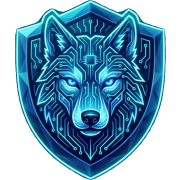
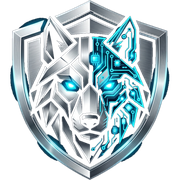
feat(brand): rename platform to WolfCore Technology and implement cybernetic shield badge

diff --git a/public/css/glass.css b/public/css/glass.css
@@ -1,5 +1,11 @@
 /* ================================================================
-   WOLFCORE SYSTEMA - LIQUID GLASS DESIGN SYSTEM
+   WOLFCORE TECHNOLOGY - LIQUID GLASS DESIGN SYSTEM
+   Generado automáticamente desde arquitectura modular en resources/css/glass/
+   ================================================================ */
+
+/* --- MODULE: _tokens.css --- */
+/* ================================================================
+   WOLFCORE TECHNOLOGY - LIQUID GLASS DESIGN SYSTEM
    Paleta: Azul Eléctrico #2563EB, Azul Oscuro #0F172A, Blanco #FFFFFF
    ================================================================ */
 
@@ -201,6 +207,8 @@ html.dark .glass {
   border-color: var(--glass-dark-border);
   box-shadow: var(--glass-dark-shadow);
 }
+
+/* --- MODULE: _cards.css --- */
 /* --- TARJETA VIDRIO (REDONDEADA) -------------------------------------------------- */
 .glass-card {
   background: rgba(255, 255, 255, 0.65);
@@ -420,6 +428,8 @@ html.dark .glass-card-gray {
   --card-accent: 100, 116, 139;
 }
 
+
+/* --- MODULE: _sidebar.css --- */
 /* --- SIDEBAR VIDRIO LIQUIDO -------------------------------------------------- */
 #ts-sidebar {
   width: var(--sidebar-w);
@@ -600,7 +610,7 @@ html.dark .nav-item {
   display: inline-block !important;
 }
 
-/* Modo Zoom >= 150% o Móvil: WOLFCORE SYSTEMA encima de NAVEGACIÓN */
+/* Modo Zoom >= 150% o Móvil: WOLFCORE TECHNOLOGY encima de NAVEGACIÓN */
 #ts-sidebar.show-sidebar-brand:hover .sidebar-logo-title,
 #ts-sidebar.show-sidebar-brand.expanded .sidebar-logo-title,
 #ts-sidebar.show-sidebar-brand.mobile-open .sidebar-logo-title {
@@ -753,6 +763,8 @@ html.dark .nav-group-label {
     box-shadow: 0 2px 14px rgba(239, 68, 68, 0.70);
   }
 }
+
+/* --- MODULE: _topbar.css --- */
 /* --- BARRA SUPERIOR (TOPBAR) -------------------------------------------------- */
 #ts-topbar {
   background: rgba(255, 255, 255, 0.60);
@@ -793,6 +805,8 @@ html.dark #ts-topbar {
   flex-shrink: 0;
 }
 
+
+/* --- MODULE: _buttons.css --- */
 /* --- BOTÓN PRIMARIO VIDRIO LIQUIDO (Dimensiones idénticas a btn-purple: 38px) --- */
 .btn-primary {
   display: inline-flex !important;
@@ -4190,6 +4204,8 @@ html.dark .btn-blue:hover {
   box-shadow: 0 5px 16px -2px rgba(0, 0, 0, 0.50), inset 0 1px 0 rgba(255, 255, 255, 0.22) !important;
 }
 
+
+/* --- MODULE: _forms.css --- */
 /* --- INPUT VIDRIO -------------------------------------------------- */
 .glass-input {
   width: 100%;
@@ -4622,6 +4638,8 @@ html.dark .field-label {
 }
 
 
+
+/* --- MODULE: _tables.css --- */
 /* --- TABLA DE DATOS ULTRA-PREMIUM (Liquid Glass) ------------------------- */
 .ts-table,
 .glass-table {
@@ -5166,6 +5184,8 @@ html.dark .ts-table tbody td.text-emerald-600 {
     }
   }
 }
+
+/* --- MODULE: _pills.css --- */
 /* --- PILLS DE ESTADO -------------------------------------------------- */
 .pill {
   display: inline-flex;
@@ -5299,6 +5319,8 @@ html.dark .pill-especialidad {
   background: rgba(99, 102, 241, 0.15);
 }
 
+
+/* --- MODULE: _print.css --- */
 /* ================================================================
    Print
    ================================================================ */
@@ -5429,6 +5451,8 @@ html.dark .pill-especialidad {
   }
 }
 
+
+/* --- MODULE: _modals.css --- */
 /* --- TOGGLE ENTIDAD (PERSONA / EMPRESA) -------------------------------------------------- */
 .entity-toggle {
   display: flex;
@@ -5527,6 +5551,8 @@ html.dark .ts-modal-card {
   transition: width 0.15s ease;
   pointer-events: none;
 }
+
+/* --- MODULE: _animations.css --- */
 /* --- ANIMACIONES -------------------------------------------------- */
 @keyframes fadeSlideIn {
 
@@ -5562,6 +5588,8 @@ html.dark .ts-modal-card {
   border-radius: 6px;
 }
 
+
+/* --- MODULE: _responsive.css --- */
 /* --- ESTILOS DE IMPRESIÓN -------------------------------------------------- */
 @media print {
 
@@ -5705,6 +5733,8 @@ html.dark .ts-modal-card {
 }
 
 
+
+/* --- MODULE: _tomselect.css --- */
 /* --- GLASSMORPHISM: TOM-SELECT -------------------------------------------------- */
 
 /* ---- Wrapper: eliminar fondo/borde evitar cuadro en cuadro ---- */
@@ -5883,6 +5913,8 @@ html.dark .ts-wrapper.is-invalid .ts-control {
 
 
 
+
+/* --- MODULE: _flatpickr.css --- */
 /* --- GLASSMORPHISM: FLATPICKR CALENDAR -------------------------------------------------- */
 .flatpickr-calendar {
   background: rgba(255, 255, 255, 0.70) !important;
@@ -6075,6 +6107,8 @@ html.dark .flatpickr-day.flatpickr-disabled {
 }
 
 
+
+/* --- MODULE: _utilities.css --- */
 /* --- CORRECCIÓN AUTOCOMPLETADO NAVEGADOR -------------------------------------------------- */
 input:-webkit-autofill,
 input:-webkit-autofill:hover,
@@ -8430,7 +8464,7 @@ html.dark a[title*="Revertir" i] {
   cursor: not-allowed !important;
 }
 
-/* Espaciado del título WOLFCORE SYSTEMA exclusivamente en móviles para no colisionar con el botón de tema */
+/* Espaciado del título WOLFCORE TECHNOLOGY exclusivamente en móviles para no colisionar con el botón de tema */
 @media (max-width: 639px) {
   .login-brand-title {
     margin-top: 3.5rem !important;
@@ -10174,3 +10208,4 @@ html.dark .reportes-nav-principal a:hover {
     gap: 0.5rem !important;
   }
 }
+

diff --git a/resources/css/glass/_sidebar.css b/resources/css/glass/_sidebar.css
@@ -178,7 +178,7 @@ html.dark .nav-item {
   display: inline-block !important;
 }
 
-/* Modo Zoom >= 150% o Móvil: WOLFCORE SYSTEMA encima de NAVEGACIÓN */
+/* Modo Zoom >= 150% o Móvil: WOLFCORE TECHNOLOGY encima de NAVEGACIÓN */
 #ts-sidebar.show-sidebar-brand:hover .sidebar-logo-title,
 #ts-sidebar.show-sidebar-brand.expanded .sidebar-logo-title,
 #ts-sidebar.show-sidebar-brand.mobile-open .sidebar-logo-title {

diff --git a/resources/css/glass/_utilities.css b/resources/css/glass/_utilities.css
@@ -2353,7 +2353,7 @@ html.dark a[title*="Revertir" i] {
   cursor: not-allowed !important;
 }
 
-/* Espaciado del título WOLFCORE SYSTEMA exclusivamente en móviles para no colisionar con el botón de tema */
+/* Espaciado del título WOLFCORE TECHNOLOGY exclusivamente en móviles para no colisionar con el botón de tema */
 @media (max-width: 639px) {
   .login-brand-title {
     margin-top: 3.5rem !important;

diff --git a/resources/css/glass/glass.css b/resources/css/glass/glass.css
@@ -1,5 +1,5 @@
 /* ================================================================
-   WOLFCORE SYSTEMA - LIQUID GLASS DESIGN SYSTEM (ARQUITECTURA MODULAR)
+   WOLFCORE TECHNOLOGY - LIQUID GLASS DESIGN SYSTEM (ARQUITECTURA MODULAR)
    Pionero de diseño para proyectos Laravel de alta fidelidad visual.
    ================================================================ */
 

diff --git a/resources/css/glass/_tokens.css b/resources/css/glass/_tokens.css
@@ -1,5 +1,5 @@
 /* ================================================================
-   WOLFCORE SYSTEMA - LIQUID GLASS DESIGN SYSTEM
+   WOLFCORE TECHNOLOGY - LIQUID GLASS DESIGN SYSTEM
    Paleta: Azul Eléctrico #2563EB, Azul Oscuro #0F172A, Blanco #FFFFFF
    ================================================================ */
 

diff --git a/resources/views/layouts/consulta.blade.php b/resources/views/layouts/consulta.blade.php
@@ -3,9 +3,9 @@
 <head>
     <meta charset="UTF-8">
     <meta name="viewport" content="width=device-width, initial-scale=1.0, maximum-scale=1.0, user-scalable=no">
-    <title>Consulta — WolfCore Systema</title>
+    <title>Consulta — WolfCore Technology</title>
     
-    <!-- Favicon (Isotipo e Insignia WolfCore Systema con invalidación de caché) -->
+    <!-- Favicon (Isotipo e Insignia WolfCore Technology con invalidación de caché) -->
     <link rel="icon" type="image/png" sizes="48x48" href="{{ asset('favicon-48x48.png') }}?v={{ filemtime(public_path('favicon-48x48.png')) }}">
     <link rel="icon" type="image/png" sizes="32x32" href="{{ asset('favicon-32x32.png') }}?v={{ filemtime(public_path('favicon-32x32.png')) }}">
     <link rel="icon" type="image/png" sizes="16x16" href="{{ asset('favicon-16x16.png') }}?v={{ filemtime(public_path('favicon-16x16.png')) }}">
@@ -42,7 +42,7 @@
     </script>
 </head>
 <body class="ts-bg text-gray-800 dark:text-gray-100 min-h-screen">
-    {{-- Header mínimo con logo Wolf Guard y cerrar sesión --}}
+    {{-- Header mínimo con logo WolfCore Technology y cerrar sesión --}}
     <header class="bg-white/80 dark:bg-slate-900/80 backdrop-blur-sm border-b border-gray-200/50 dark:border-white/10 sticky top-0 z-40">
         <div class="max-w-7xl mx-auto px-4 py-3 flex items-center justify-between">
             @php
@@ -50,9 +50,9 @@
                 $headerHome = $isElecHeader ? route('consulta.electronicas') : route('consulta.mantenimientos');
             @endphp
             <a href="{{ $headerHome }}" class="flex items-center gap-2.5 hover:scale-105 transition-transform duration-200">
-                <img src="{{ asset('images/wolfcore.png') }}" alt="WolfCore Systema" class="w-7 h-7 object-contain">
+                <img src="{{ asset('images/wolfcore.png') }}" alt="WolfCore Technology" class="w-7 h-7 object-contain">
                 <span class="text-[#2563EB] dark:text-[#3B82F6] font-logo font-black text-xl">WOLFCORE</span>
-                <span class="text-slate-800 dark:text-white font-logo font-black text-xl">SYSTEMA</span>
+                <span class="text-slate-800 dark:text-white font-logo font-black text-xl">TECHNOLOGY</span>
                 <span class="ml-2 px-2 py-0.5 text-[10px] font-bold {{ $isElecHeader ? 'bg-purple-100 dark:bg-purple-900/30 text-purple-700 dark:text-purple-300' : 'bg-blue-100 dark:bg-blue-900/30 text-blue-700 dark:text-blue-300' }} rounded">CONSULTA</span>
             </a>
             <form method="POST" action="{{ route('logout') }}" class="m-0">

diff --git a/resources/views/guest/dashboard.blade.php b/resources/views/guest/dashboard.blade.php
@@ -1,6 +1,6 @@
 @extends('layouts.guest')
 
-@section('title', 'WolfCore Systema — Portal de Seguimiento')
+@section('title', 'WolfCore Technology — Portal de Seguimiento')
 
 @section('content')
 <div class="min-h-screen relative overflow-hidden flex items-center justify-center p-4 sm:p-8">
@@ -32,18 +32,18 @@
 
     <div class="w-full {{ ($cliente || (isset($searched) && ($mantenimientos->isNotEmpty() || $electronicas->isNotEmpty()))) ? 'max-w-2xl' : 'max-w-md' }} z-10 flex flex-col items-center pb-10 transition-all">
         
-        {{-- Logo WOLFCORE SYSTEMA (Fuera del recuadro) --}}
+        {{-- Logo WOLFCORE TECHNOLOGY (Fuera del recuadro) --}}
         <div class="flex justify-center mb-4 login-brand-title">
             <div class="text-[26px] font-black tracking-widest font-logo flex items-center gap-2">
                 <span class="text-[#2563EB] dark:text-[#3B82F6]">WOLFCORE</span>
-                <span class="text-slate-800 dark:text-white">SYSTEMA</span>
+                <span class="text-slate-800 dark:text-white">TECHNOLOGY</span>
             </div>
         </div>
 
-        {{-- Encabezado con insignia oficial de WolfCore Systema --}}
+        {{-- Encabezado con insignia oficial de WolfCore Technology --}}
         <div class="text-center mb-3">
             <div class="inline-flex items-center justify-center w-20 h-20 mb-2 hover:scale-105 transition-transform duration-300">
-                <img src="{{ asset('images/wolfcore.png') }}" alt="WolfCore Systema" class="w-full h-full object-contain filter drop-shadow-[0_4px_10px_rgba(0,0,0,0.2)]">
+                <img src="{{ asset('images/wolfcore.png') }}" alt="WolfCore Technology" class="w-full h-full object-contain filter drop-shadow-[0_4px_10px_rgba(0,0,0,0.2)]">
             </div>
         </div>
 

diff --git a/resources/views/consulta/mantenimientos.blade.php b/resources/views/consulta/mantenimientos.blade.php
@@ -3,18 +3,18 @@
 @section('content')
 <div class="w-full max-w-xl mx-auto">
 
-    {{-- Título de Marca WolfCore Systema --}}
+    {{-- Título de Marca WolfCore Technology --}}
     <div class="flex justify-center mb-3">
         <div class="text-[26px] font-black tracking-widest font-logo flex items-center gap-2">
             <span class="text-[#2563EB] dark:text-[#3B82F6]">WOLFCORE</span>
-            <span class="text-slate-800 dark:text-white">SYSTEMA</span>
+            <span class="text-slate-800 dark:text-white">TECHNOLOGY</span>
         </div>
     </div>
 
-    {{-- Encabezado con insignia oficial de WolfCore Systema --}}
+    {{-- Encabezado con insignia oficial de WolfCore Technology --}}
     <div class="text-center mb-3">
         <div class="inline-flex items-center justify-center w-20 h-20 mb-2 hover:scale-105 transition-transform duration-300">
-            <img src="{{ asset('images/wolfcore.png') }}" alt="WolfCore Systema" class="w-full h-full object-contain filter drop-shadow-[0_4px_10px_rgba(0,0,0,0.2)]">
+            <img src="{{ asset('images/wolfcore.png') }}" alt="WolfCore Technology" class="w-full h-full object-contain filter drop-shadow-[0_4px_10px_rgba(0,0,0,0.2)]">
         </div>
         <h1 class="text-xl font-black text-slate-800 dark:text-white">Consulta de Mantenimientos</h1>
         <p class="text-sm text-gray-500 dark:text-gray-400 mt-1">Ingresa la cédula del cliente y el número de orden (ej: ORD-001)</p>

diff --git a/resources/views/consulta/electronicas.blade.php b/resources/views/consulta/electronicas.blade.php
@@ -3,18 +3,18 @@
 @section('content')
 <div class="w-full max-w-xl mx-auto">
 
-    {{-- Título de Marca WolfCore Systema --}}
+    {{-- Título de Marca WolfCore Technology --}}
     <div class="flex justify-center mb-3">
         <div class="text-[26px] font-black tracking-widest font-logo flex items-center gap-2">
             <span class="text-[#2563EB] dark:text-[#3B82F6]">WOLFCORE</span>
-            <span class="text-slate-800 dark:text-white">SYSTEMA</span>
+            <span class="text-slate-800 dark:text-white">TECHNOLOGY</span>
         </div>
     </div>
 
-    {{-- Encabezado con insignia oficial de WolfCore Systema --}}
+    {{-- Encabezado con insignia oficial de WolfCore Technology --}}
     <div class="text-center mb-3">
         <div class="inline-flex items-center justify-center w-20 h-20 mb-2 hover:scale-105 transition-transform duration-300">
-            <img src="{{ asset('images/wolfcore.png') }}" alt="WolfCore Systema" class="w-full h-full object-contain filter drop-shadow-[0_4px_10px_rgba(0,0,0,0.2)]">
+            <img src="{{ asset('images/wolfcore.png') }}" alt="WolfCore Technology" class="w-full h-full object-contain filter drop-shadow-[0_4px_10px_rgba(0,0,0,0.2)]">
         </div>
         <h1 class="text-xl font-black text-slate-800 dark:text-white">Consulta de Electrónicas</h1>
         <p class="text-sm text-gray-500 dark:text-gray-400 mt-1">Ingresa la cédula del cliente y el número de orden (ej: ELC-001)</p>

diff --git a/resources/views/auth/login.blade.php b/resources/views/auth/login.blade.php
@@ -14,18 +14,18 @@
 
 <div class="w-full max-w-md px-6 pb-16">
 
- {{-- Logo WOLFCORE SYSTEMA --}}
+ {{-- Logo WOLFCORE TECHNOLOGY --}}
  <div class="flex justify-center mb-4 login-brand-title">
      <div class="text-[26px] font-black tracking-widest font-logo flex items-center gap-2">
          <span class="text-[#2563EB] dark:text-[#3B82F6]">WOLFCORE</span>
-         <span class="text-slate-800 dark:text-white">SYSTEMA</span>
+         <span class="text-slate-800 dark:text-white">TECHNOLOGY</span>
      </div>
  </div>
 
- {{-- Encabezado con insignia oficial de WolfCore Systema --}}
+ {{-- Encabezado con insignia oficial de WolfCore Technology --}}
  <div class="text-center mb-3">
  <div class="inline-flex items-center justify-center w-20 h-20 mb-2 hover:scale-105 transition-transform duration-300">
-     <img src="{{ asset('images/wolfcore.png') }}" alt="WolfCore Systema" class="w-full h-full object-contain filter drop-shadow-[0_4px_10px_rgba(0,0,0,0.2)]">
+     <img src="{{ asset('images/wolfcore.png') }}" alt="WolfCore Technology" class="w-full h-full object-contain filter drop-shadow-[0_4px_10px_rgba(0,0,0,0.2)]">
  </div>
  <h1 class="text-xl font-black text-gray-900 dark:text-white">Iniciar Sesión</h1>
  <p class="text-sm text-gray-500 dark:text-gray-400 mt-1">Ingresa tus credenciales para acceder al sistema</p>

diff --git a/resources/views/layouts/partials/sidebar.blade.php b/resources/views/layouts/partials/sidebar.blade.php
@@ -2,10 +2,10 @@
         <aside id="ts-sidebar" class="no-print group hover:expanded flex flex-col">
             <!-- Brand / Logo -->
             <div class="h-16 flex flex-col items-center justify-center border-b border-gray-200/40 dark:border-white/5 shrink-0 px-4 relative transition-all duration-150">
-                <!-- Título WOLFCORE SYSTEMA: Aparece sobre NAVEGACIÓN únicamente cuando se oculta en el topbar (zoom >= 150% o móvil) -->
+                <!-- Título WOLFCORE TECHNOLOGY: Aparece sobre NAVEGACIÓN únicamente cuando se oculta en el topbar (zoom >= 150% o móvil) -->
                 <div class="sidebar-logo-title flex items-center justify-center gap-1.5 font-logo text-[13px] font-black leading-tight tracking-wider transition-all duration-200 select-none">
                     <span class="text-[#2563EB] dark:text-[#3B82F6]">WOLFCORE</span>
-                    <span class="text-slate-800 dark:text-white">SYSTEMA</span>
+                    <span class="text-slate-800 dark:text-white">TECHNOLOGY</span>
                 </div>
 
                 <!-- NAVEGACIÓN -->

diff --git a/resources/views/layouts/app.blade.php b/resources/views/layouts/app.blade.php
@@ -19,9 +19,9 @@
     <meta name="description" content="Sistema de Control de Mantenimiento y Gestión de Equipos. Solución integral para talleres y gestión de garantías.">
     <meta name="keywords" content="Mantenimiento, Talleres, Gestión de Inventario, Cotizaciones, Electrónica">
     
-    <title>@yield('title', 'WolfCore Systema')</title>
+    <title>@yield('title', 'WolfCore Technology')</title>
     
-    <!-- Favicon (Isotipo e Insignia WolfCore Systema con invalidación de caché) -->
+    <!-- Favicon (Isotipo e Insignia WolfCore Technology con invalidación de caché) -->
     <link rel="icon" type="image/png" sizes="48x48" href="{{ asset('favicon-48x48.png') }}?v={{ filemtime(public_path('favicon-48x48.png')) }}">
     <link rel="icon" type="image/png" sizes="32x32" href="{{ asset('favicon-32x32.png') }}?v={{ filemtime(public_path('favicon-32x32.png')) }}">
     <link rel="icon" type="image/png" sizes="16x16" href="{{ asset('favicon-16x16.png') }}?v={{ filemtime(public_path('favicon-16x16.png')) }}">
